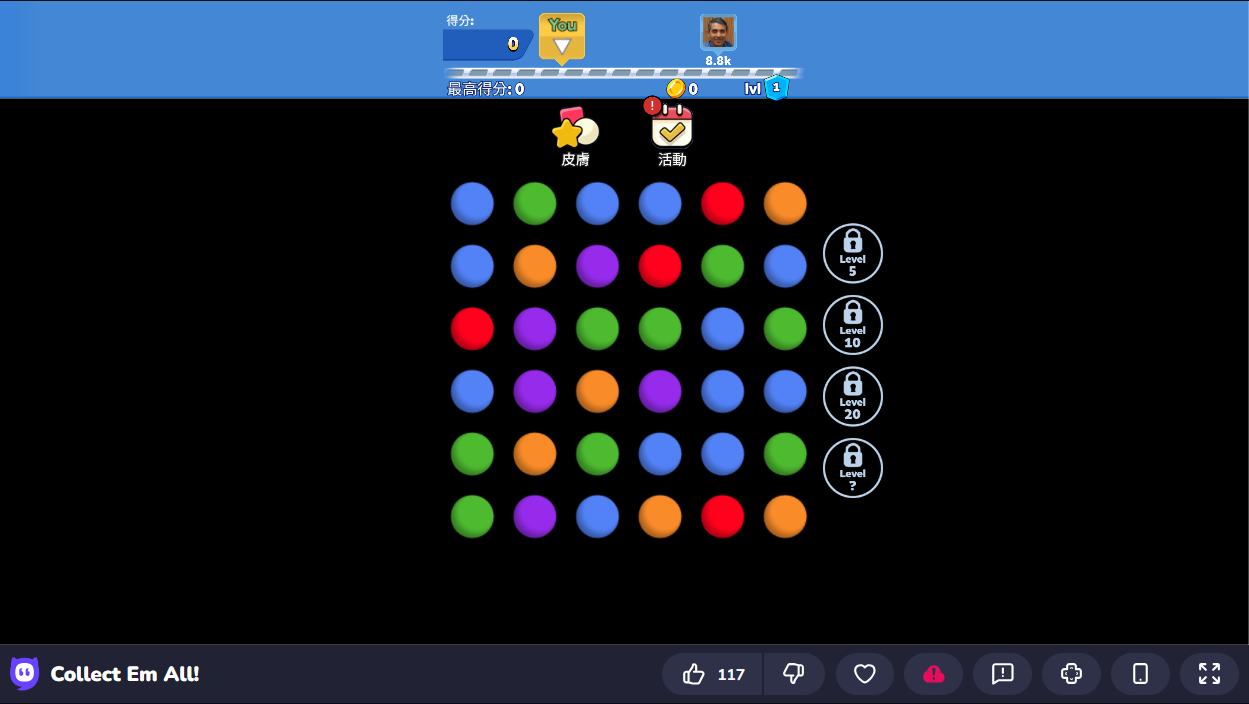
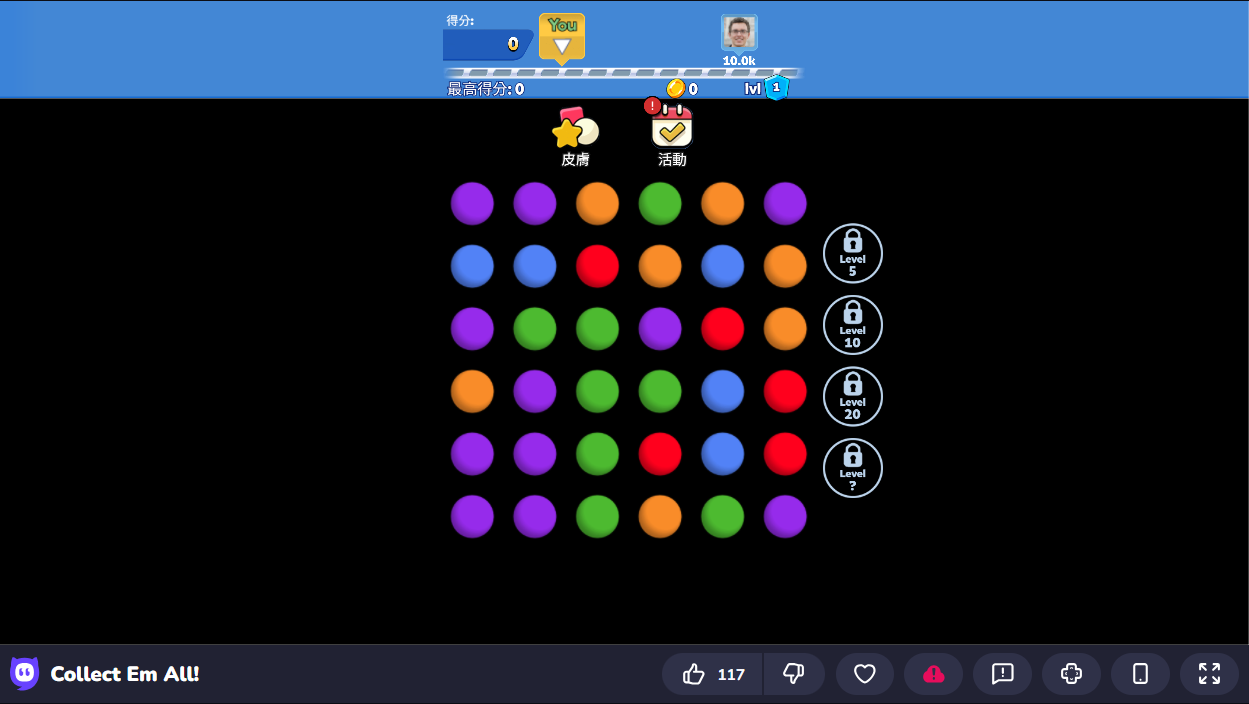
更新 main.py && 更新readme對應的部分

diff --git a/main.py b/main.py
@@ -157,7 +157,7 @@ def read_matrix(iframe_topleft: Point, image_path: str = screenshot_path) -> Non
     if len(all_locations) != 36: raise RuntimeError("找不到6*6=36顆球")
     
     # 記錄 start_point, grid_spacing
-    all_locations.sort(key=lambda box : box.top)
+    all_locations.sort(key=lambda box : (box.top, box.left))
     box00, box11 = all_locations[0], all_locations[7] # 在(0, 0)和(1, 1)的box
     start_point = Point(box00.left+box00.width/2, box00.top+box00.height/2)
     grid_spacing = Point(box11.left-box00.left, box11.top-box00.top)
@@ -165,22 +165,15 @@ def read_matrix(iframe_topleft: Point, image_path: str = screenshot_path) -> Non
     
     # 分成一個個row並加入matrix
     for i in range(0, 36, 6):
-        # 分割成6行
-        slice_ = all_locations[i:i+6]
-        slice_.sort(key = lambda box : box.left)
-        # 取得顏色
-        row = [get_box_color(image, element) for element in slice_]
-        # 加入matrix
-        matrix.append(row)
+        slice_ = all_locations[i:i+6]                               # 分割成6行
+        row = [get_box_color(image, element) for element in slice_] # 取得顏色
+        matrix.append(row)                                           # 加入matrix
         
 # 座標轉換
 def pixel_pos(grid: Point, topleft: Point, offset: Point) -> Point:
     """將矩陣的座標轉為像素座標"""
-    rel_x = grid.x * offset.x
-    rel_y = grid.y * offset.y
-    abs_x = topleft.x + rel_x
-    abs_y = topleft.y + rel_y
-    return Point(abs_x, abs_y)
+    rel_point = Point(grid.x*offset.x, grid.y*offset.y)
+    return topleft+rel_point
 
 # 拖曳連線
 def drag_path(page: Page, points: list[Point]):
